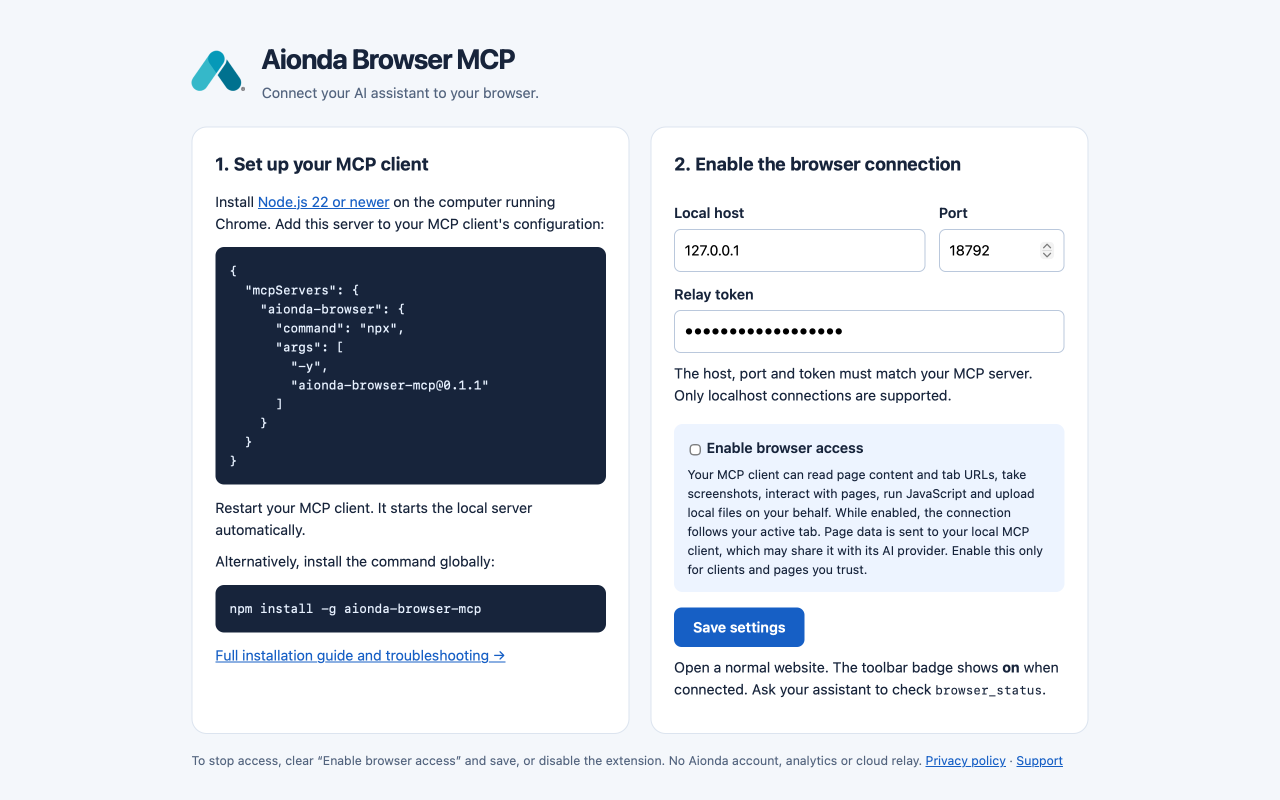
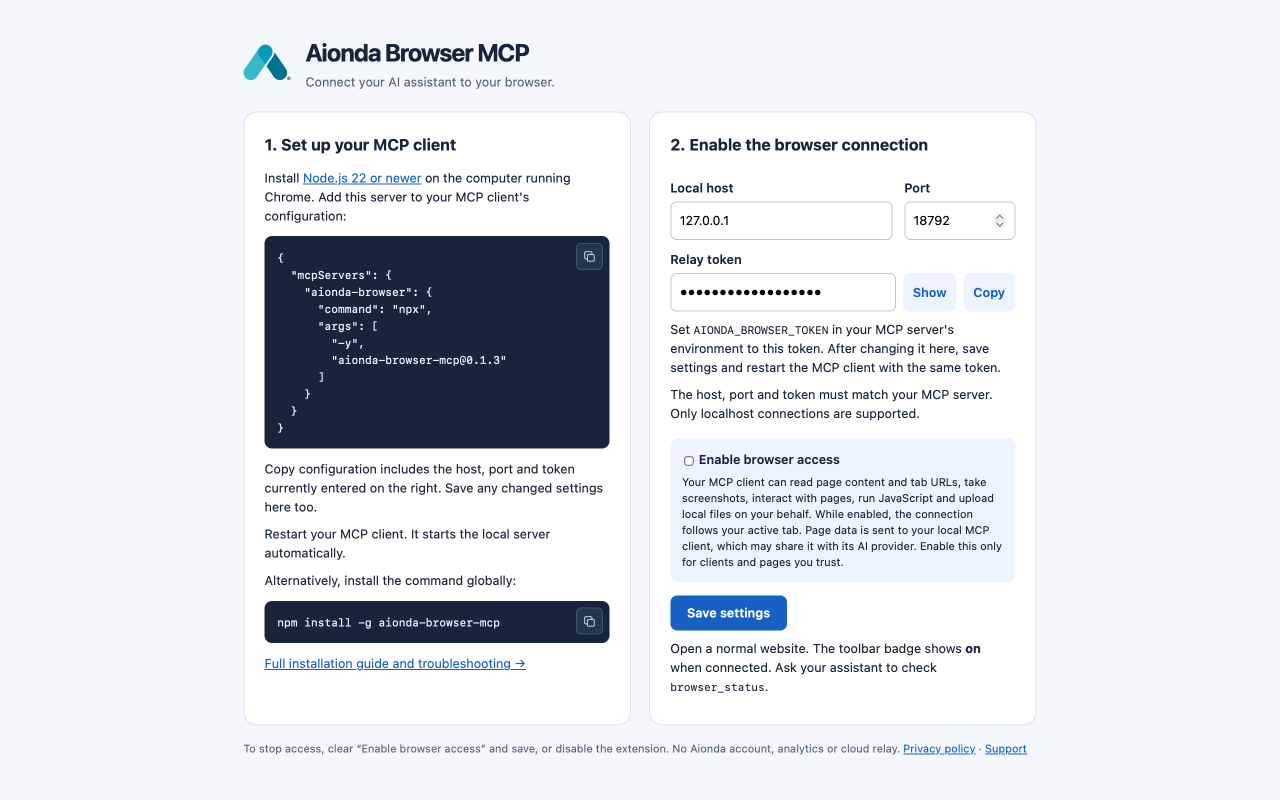
feat: reveal relay token and copy setup commands and configuration

diff --git a/extension/options.html b/extension/options.html
@@ -22,6 +22,18 @@
     label { display: block; font-weight: 600; margin: 12px 0 5px; }
     input:not([type=checkbox]) { width: 100%; padding: 10px; border: 1px solid #bac8dc; border-radius: 7px; font: inherit; }
     .row { display: grid; grid-template-columns: 2fr 1fr; gap: 14px; }
+    .token-controls { display: flex; gap: 8px; }
+    .token-controls input { min-width: 0; flex: 1; }
+    .token-controls button { margin: 0; padding: 10px 12px; background: #edf4ff; color: #165fc5; }
+    .code-block { position: relative; }
+    .code-block pre { padding-right: 52px; }
+    .copy-button { position: absolute; top: 8px; right: 8px; display: grid; place-items: center; width: 32px; height: 32px; margin: 0; padding: 7px; background: #243550; color: #c4d3e8; border: 1px solid #41516a; border-radius: 6px; }
+    .copy-button:hover { background: #344969; color: white; }
+    .copy-button:focus-visible { outline: 2px solid #88bcff; outline-offset: 2px; }
+    .copy-button svg { width: 16px; height: 16px; fill: none; stroke: currentColor; stroke-width: 1.8; stroke-linecap: round; stroke-linejoin: round; }
+    .copy-button .check-icon, .copy-button[data-copied] .copy-icon { display: none; }
+    .copy-button[data-copied] .check-icon { display: block; }
+    .copy-button[data-copied] { color: #79dfba; }
     .consent { background: #edf4ff; padding: 14px; border-radius: 9px; margin-top: 18px; font-size: 13px; }
     .consent label { margin: 0 0 6px; font-size: 15px; }
     .consent input { margin-right: 6px; }
@@ -38,26 +50,41 @@
     <section>
       <h2>1. Set up your MCP client</h2>
       <p>Install <a href="https://nodejs.org/" target="_blank" rel="noreferrer">Node.js 22 or newer</a> on the computer running Chrome. Add this server to your MCP client's configuration:</p>
-      <pre>{
+      <div class="code-block"><pre id="mcp-config">{
   "mcpServers": {
     "aionda-browser": {
       "command": "npx",
       "args": [
         "-y",
-        "aionda-browser-mcp@0.1.1"
+        "aionda-browser-mcp@0.1.3"
       ]
     }
   }
 }</pre>
+      <button class="copy-button" type="button" data-copy-target="mcp-config" aria-label="Copy configuration" title="Copy configuration">
+        <svg class="copy-icon" viewBox="0 0 24 24" aria-hidden="true"><rect x="8" y="8" width="12" height="12" rx="2"></rect><path d="M16 8V5a2 2 0 0 0-2-2H5a2 2 0 0 0-2 2v9a2 2 0 0 0 2 2h3"></path></svg>
+        <svg class="check-icon" viewBox="0 0 24 24" aria-hidden="true"><path d="m5 12 4 4L19 6"></path></svg>
+      </button></div>
+      <p>Copy configuration includes the host, port and token currently entered on the right. Save any changed settings here too.</p>
       <p>Restart your MCP client. It starts the local server automatically.</p>
       <p>Alternatively, install the command globally:</p>
-      <pre>npm install -g aionda-browser-mcp</pre>
+      <div class="code-block"><pre id="install-command">npm install -g aionda-browser-mcp</pre>
+      <button class="copy-button" type="button" data-copy-target="install-command" aria-label="Copy command" title="Copy command">
+        <svg class="copy-icon" viewBox="0 0 24 24" aria-hidden="true"><rect x="8" y="8" width="12" height="12" rx="2"></rect><path d="M16 8V5a2 2 0 0 0-2-2H5a2 2 0 0 0-2 2v9a2 2 0 0 0 2 2h3"></path></svg>
+        <svg class="check-icon" viewBox="0 0 24 24" aria-hidden="true"><path d="m5 12 4 4L19 6"></path></svg>
+      </button></div>
       <p><a href="https://github.com/AiondaDotCom/aionda-browser-mcp#installation" target="_blank" rel="noreferrer">Full installation guide and troubleshooting →</a></p>
     </section>
     <section>
       <h2>2. Enable the browser connection</h2>
       <div class="row"><div><label for="host">Local host</label><input id="host" autocomplete="off" value="127.0.0.1"></div><div><label for="port">Port</label><input id="port" type="number" min="1" max="65535" value="18792"></div></div>
-      <label for="token">Relay token</label><input id="token" type="password" autocomplete="off" value="aionda-browser-dev">
+      <label for="token">Relay token</label>
+      <div class="token-controls">
+        <input id="token" type="password" autocomplete="off" spellcheck="false" aria-describedby="token-help" value="aionda-browser-dev">
+        <button id="toggle-token" type="button" aria-controls="token" aria-label="Show relay token" aria-pressed="false">Show</button>
+        <button id="copy-token" type="button" aria-label="Copy relay token">Copy</button>
+      </div>
+      <p id="token-help">Set <code>AIONDA_BROWSER_TOKEN</code> in your MCP server's environment to this token. After changing it here, save settings and restart the MCP client with the same token.</p>
       <p>The host, port and token must match your MCP server. Only localhost connections are supported.</p>
       <div class="consent">
         <label><input id="enabled" type="checkbox">Enable browser access</label>

diff --git a/extension/options.js b/extension/options.js
@@ -4,8 +4,58 @@ const port = document.getElementById("port");
 const token = document.getElementById("token");
 const enabled = document.getElementById("enabled");
 const status = document.getElementById("status");
+for (const button of document.querySelectorAll("[data-copy-target]")) {
+  const label = button.getAttribute("aria-label");
+  let resetTimer;
+  button.addEventListener("click", async () => {
+    try {
+      let text = document.getElementById(button.dataset.copyTarget).textContent;
+      if (button.dataset.copyTarget === "mcp-config") {
+        const settings = readSettings();
+        const configuration = JSON.parse(text);
+        configuration.mcpServers["aionda-browser"].env = {
+          AIONDA_BROWSER_HOST: settings.host,
+          AIONDA_BROWSER_PORT: String(settings.port),
+          AIONDA_BROWSER_TOKEN: settings.token,
+        };
+        text = JSON.stringify(configuration, null, 2);
+      }
+      await navigator.clipboard.writeText(text.trim());
+      button.dataset.copied = "true";
+      button.setAttribute("aria-label", "Copied!");
+      button.title = "Copied!";
+      status.style.color = "#137333";
+      status.textContent = button.dataset.copyTarget === "mcp-config" ? "Configuration copied with the current host, port and token. Save any changed settings here too." : "Command copied.";
+      clearTimeout(resetTimer);
+      resetTimer = setTimeout(() => {
+        delete button.dataset.copied;
+        button.setAttribute("aria-label", label);
+        button.title = label;
+      }, 2000);
+    } catch {
+      showError(new Error("Could not copy. Select the configuration or command and copy it manually."));
+    }
+  });
+}
 load().catch(showError);
 document.getElementById("save").addEventListener("click", () => persist().catch(showError));
+const toggleToken = document.getElementById("toggle-token");
+toggleToken.addEventListener("click", () => {
+  const visible = token.type === "password";
+  token.type = visible ? "text" : "password";
+  toggleToken.textContent = visible ? "Hide" : "Show";
+  toggleToken.setAttribute("aria-label", visible ? "Hide relay token" : "Show relay token");
+  toggleToken.setAttribute("aria-pressed", String(visible));
+});
+document.getElementById("copy-token").addEventListener("click", async () => {
+  try {
+    await navigator.clipboard.writeText(token.value);
+    status.style.color = "#137333";
+    status.textContent = "Token copied. Use it as AIONDA_BROWSER_TOKEN in your MCP server's environment.";
+  } catch {
+    showError(new Error("Could not copy. Click Show and copy the token manually."));
+  }
+});
 async function load() {
   const settings = await chrome.storage.local.get(DEFAULTS);
   host.value = settings.host;
@@ -13,13 +63,16 @@ async function load() {
   token.value = settings.token;
   enabled.checked = settings.enabled === true;
 }
-async function persist() {
+function readSettings() {
   const localHost = host.value.trim() || DEFAULTS.host;
   const localPort = Number(port.value);
   if (!["127.0.0.1", "localhost"].includes(localHost)) throw new Error("Use 127.0.0.1 or localhost.");
   if (!Number.isInteger(localPort) || localPort < 1 || localPort > 65535) throw new Error("Enter a port from 1 to 65535.");
   if (!token.value.trim()) throw new Error("Enter the same token as your MCP server.");
-  await chrome.storage.local.set({ host: localHost, port: localPort, token: token.value, enabled: enabled.checked });
+  return { host: localHost, port: localPort, token: token.value, enabled: enabled.checked };
+}
+async function persist() {
+  await chrome.storage.local.set(readSettings());
   status.style.color = "#137333";
   status.textContent = enabled.checked ? "Saved. Browser access enabled." : "Saved. Browser access disabled.";
 }

diff --git a/scripts/render-store-assets.swift b/scripts/render-store-assets.swift
@@ -49,7 +49,7 @@ final class Renderer: NSObject, WKNavigationDelegate {
         let bootstrap = "window.chrome = {storage:{local:{get:async defaults => defaults}}};"
         configuration.userContentController.addUserScript(WKUserScript(source: bootstrap, injectionTime: .atDocumentStart, forMainFrameOnly: true))
         view = WKWebView(frame: NSRect(x: 0, y: 0, width: 1280, height: 800), configuration: configuration)
-        view.pageZoom = 0.95
+        view.pageZoom = 0.84
         super.init()
         view.navigationDelegate = self
     }

diff --git a/src/server.ts b/src/server.ts
@@ -47,7 +47,7 @@ let connectedAt: string | null = null;
 
 const browserServer = new McpServer({
   name: "aionda-browser-mcp",
-  version: "0.1.1",
+  version: "0.1.3",
 });
 
 browserServer.tool("browser_status", "Return relay and attached-tab status.", {}, async () => {

diff --git a/store/LISTING.md b/store/LISTING.md
@@ -9,7 +9,7 @@
 - Homepage: https://github.com/AiondaDotCom/aionda-browser-mcp
 - Support: https://github.com/AiondaDotCom/aionda-browser-mcp/issues
 - Privacy policy: https://aiondadotcom.github.io/aionda-browser-mcp/privacy.html
-- ZIP: `release/aionda-browser-mcp-0.1.1-chrome.zip`
+- ZIP: `release/aionda-browser-mcp-0.1.3-chrome.zip`
 
 ### Summary
 
@@ -34,7 +34,7 @@ This extension is a companion to the free aionda-browser-mcp npm package. It is 
 
 1. Install the extension and open its Options page.
 2. Install Node.js from https://nodejs.org/.
-3. Add the server to your MCP client using command "npx" and arguments ["-y", "aionda-browser-mcp@0.1.1"]. The client downloads and starts the server automatically. Alternatively, install it with: npm install -g aionda-browser-mcp@0.1.1
+3. Add the server to your MCP client using command "npx" and arguments ["-y", "aionda-browser-mcp@0.1.3"]. The client downloads and starts the server automatically. Alternatively, install it with: npm install -g aionda-browser-mcp@0.1.3
 4. Restart your MCP client. In the extension's Options, read the disclosure, check "Enable browser access" and save.
 5. Open a website. The extension badge shows "on" when connected. Ask your assistant to check browser_status.
 
@@ -79,8 +79,8 @@ The privacy policy explains local storage, in-memory relay processing, user cont
 ## Reviewer instructions
 
 1. Install Node.js 22 or newer and the submitted extension. No Aionda account or paid service is required.
-2. Install the server using `npm install -g aionda-browser-mcp@0.1.1` or configure an MCP client with command `npx` and arguments `["-y", "aionda-browser-mcp@0.1.1"]`.
-3. Start the MCP client. Alternatively, launch `npx -y aionda-browser-mcp@0.1.1` in a terminal to verify relay connectivity only. Do not run two servers on the same port.
+2. Install the server using `npm install -g aionda-browser-mcp@0.1.3` or configure an MCP client with command `npx` and arguments `["-y", "aionda-browser-mcp@0.1.3"]`.
+3. Start the MCP client. Alternatively, launch `npx -y aionda-browser-mcp@0.1.3` in a terminal to verify relay connectivity only. Do not run two servers on the same port.
 4. Open the extension's Options. Keep localhost, port 18792 and the initial development token aionda-browser-dev. Read the disclosure, enable browser access and save.
 5. Open https://example.com/. The badge becomes on. Through an MCP client, call browser_status, browser_snapshot_compact and browser_screenshot_fast. The screenshot and text should match Example Domain.
 6. Test browser_evaluate with code `document.title`. It uses Chrome's Debugger API and returns the page title. Chrome may display a debugging banner.

diff --git a/README.md b/README.md
@@ -23,14 +23,14 @@ npm --version
 
 ### 3. Configure your MCP client
 
-Add this entry to your MCP client's server configuration. Merge it with existing servers:
+Use the copy icon inside the configuration block on the extension's Options page to include the current host, port and token automatically. Save any changed extension settings too. Alternatively, add the following entry to your MCP client's server configuration. Merge it with existing servers:
 
 ```json
 {
   "mcpServers": {
     "aionda-browser": {
       "command": "npx",
-      "args": ["-y", "aionda-browser-mcp@0.1.1"]
+      "args": ["-y", "aionda-browser-mcp@0.1.3"]
     }
   }
 }
@@ -38,14 +38,14 @@ Add this entry to your MCP client's server configuration. Merge it with existing
 
 Restart the MCP client. It downloads the npm package and starts the server automatically. The first launch requires an internet connection. Do not also start a separate relay on the same port.
 
-On Windows, clients that cannot launch `npx` directly can use `"command": "cmd"` and `"args": ["/c", "npx", "-y", "aionda-browser-mcp@0.1.1"]`.
+On Windows, clients that cannot launch `npx` directly can use `"command": "cmd"` and `"args": ["/c", "npx", "-y", "aionda-browser-mcp@0.1.3"]`.
 
 #### Global installation
 
-If you prefer to install the server explicitly:
+If you prefer to install the server explicitly, use **Copy command** on the Options page or run:
 
 ```sh
-npm install --global aionda-browser-mcp@0.1.1
+npm install --global aionda-browser-mcp@0.1.3
 ```
 
 Then configure your MCP client with `"command": "aionda-browser-mcp"` and `"args": []`. If your desktop client cannot find the command, use its absolute path (`command -v aionda-browser-mcp` on macOS/Linux or `where aionda-browser-mcp` on Windows).
@@ -66,14 +66,14 @@ While enabled, the extension follows the active tab. An MCP client can also sele
 
 ### Custom token or port
 
-Set the same values in the extension and in the MCP server's environment:
+Use **Show / Hide** beside the relay token to reveal or conceal it, and **Copy** to copy its value. Set the same values in the extension and in the MCP server's environment:
 
 ```json
 {
   "mcpServers": {
     "aionda-browser": {
       "command": "npx",
-      "args": ["-y", "aionda-browser-mcp@0.1.1"],
+      "args": ["-y", "aionda-browser-mcp@0.1.3"],
       "env": {
         "AIONDA_BROWSER_PORT": "18792",
         "AIONDA_BROWSER_TOKEN": "REPLACE_WITH_YOUR_OWN_RANDOM_TOKEN"
